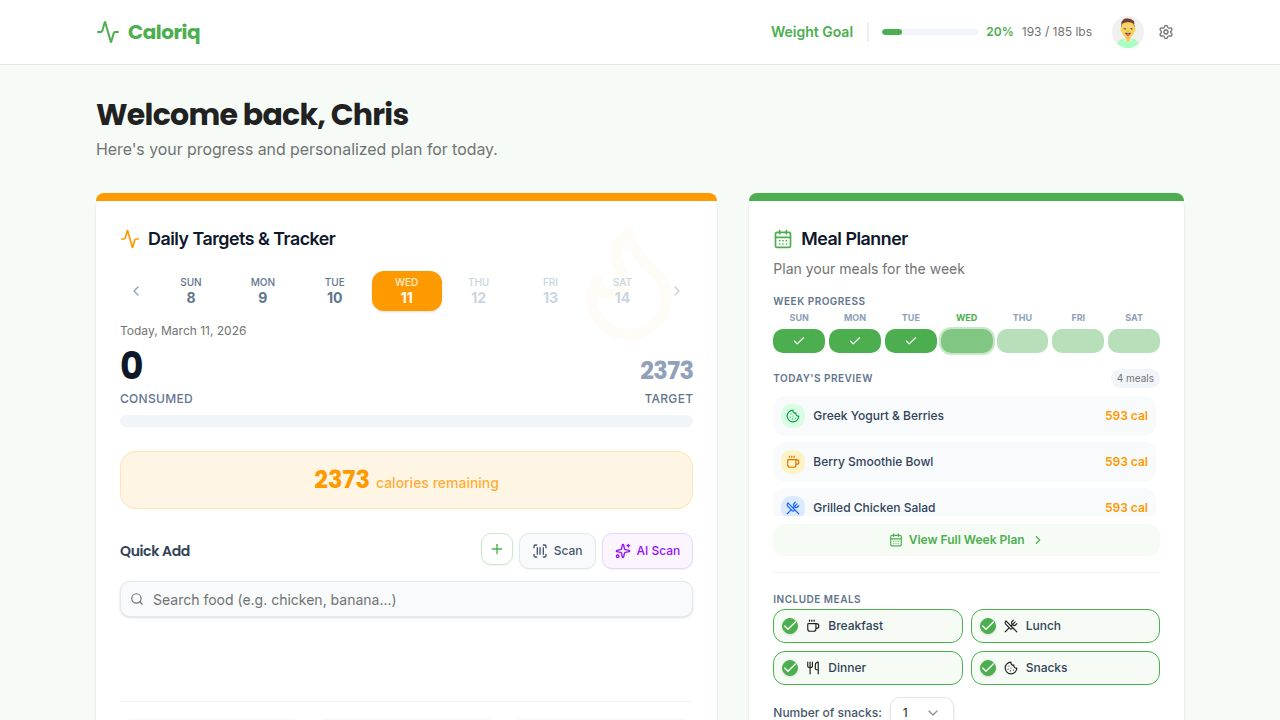
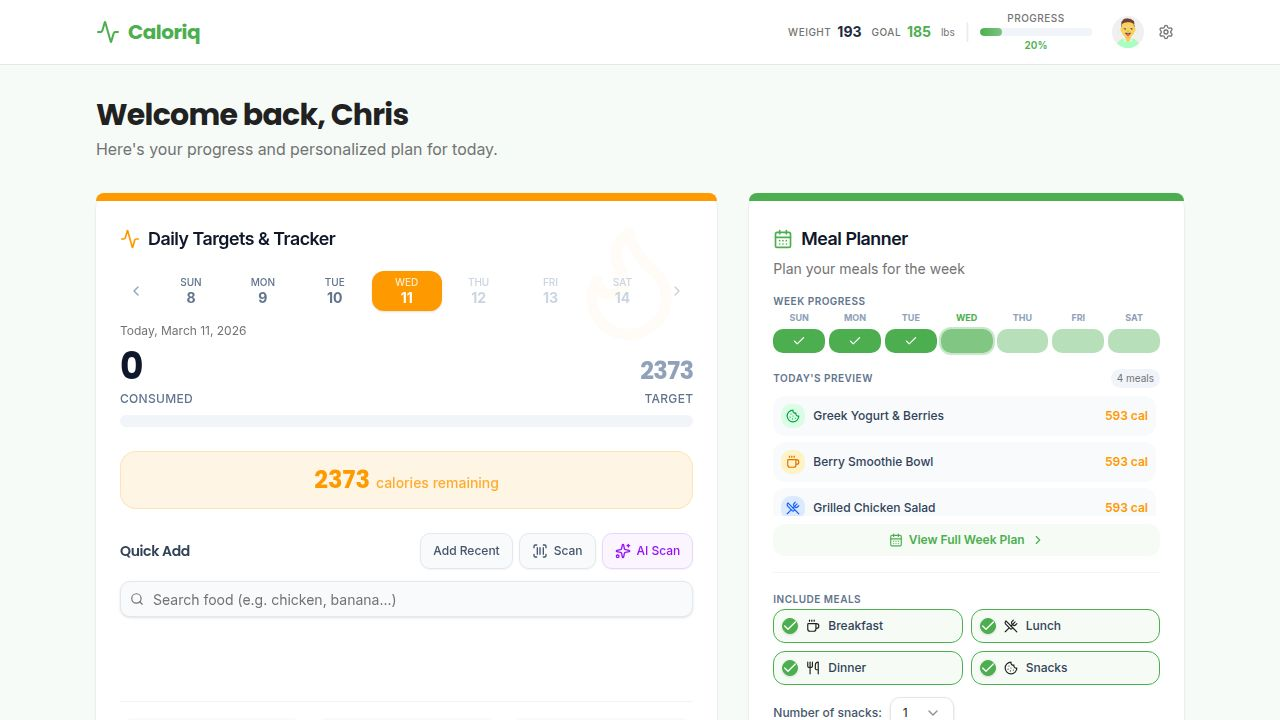
Update meal planner to show and log daily meals
Add ability to view and log individual meals from the daily meal plan in the Home component, renaming 'Today's Preview' to 'Today's Meals' and incorporating 'Eye' icon for viewing recipes.

Replit-Commit-Author: Agent
Replit-Commit-Session-Id: d0c98cd4-3401-4b9a-9fcc-3167ef5b7d4c
Replit-Commit-Checkpoint-Type: full_checkpoint
Replit-Commit-Event-Id: a284569d-7554-487b-8087-6badc2c68cf2
Replit-Commit-Screenshot-Url: https://storage.googleapis.com/screenshot-production-us-central1/b5252e75-7d72-4a27-a063-837869a7ea78/d0c98cd4-3401-4b9a-9fcc-3167ef5b7d4c/d6tlHCW
Replit-Helium-Checkpoint-Created: true

diff --git a/client/src/pages/home.tsx b/client/src/pages/home.tsx
@@ -27,7 +27,8 @@ import {
   Share2,
   ChevronDown,
   ChevronUp,
-  Dumbbell
+  Dumbbell,
+  Eye
 } from "lucide-react";
 import { format, addDays, subDays, isToday, isSameDay, startOfWeek, endOfWeek } from "date-fns";
 import type { UserProfile, FoodEntry, SavedRecipe, PlannedMeal, ExerciseEntry } from "@shared/schema";
@@ -1512,29 +1513,83 @@ export default function Home() {
                 {todayPlannedMeals.length > 0 ? (
                   <div className="space-y-2">
                     <div className="flex items-center justify-between">
-                      <Label className="text-[10px] uppercase tracking-wider text-slate-500 dark:text-slate-400 font-semibold">Today's Preview</Label>
+                      <Label className="text-[10px] uppercase tracking-wider text-slate-500 dark:text-slate-400 font-semibold">Today's Meals</Label>
                       <span className="text-[10px] text-muted-foreground bg-slate-100 dark:bg-slate-800 px-1.5 py-0.5 rounded-full">{todayPlannedMeals.length} meals</span>
                     </div>
-                    <div className="space-y-1.5 max-h-[120px] overflow-y-auto pr-1">
-                      {todayPlannedMeals.map(meal => (
-                        <div key={meal.id} className="flex items-center gap-2 p-2 rounded-lg bg-slate-50 dark:bg-slate-800 text-sm" data-testid={`planned-meal-${meal.id}`}>
-                          <div className={`w-6 h-6 rounded-md flex items-center justify-center flex-shrink-0 ${
-                            meal.mealType === 'breakfast' ? 'bg-amber-100 dark:bg-amber-900/30 text-amber-600' :
-                            meal.mealType === 'lunch' ? 'bg-blue-100 dark:bg-blue-900/30 text-blue-600' :
-                            meal.mealType === 'dinner' ? 'bg-purple-100 dark:bg-purple-900/30 text-purple-600' :
-                            'bg-green-100 dark:bg-green-900/30 text-green-600'
-                          }`}>
-                            {meal.mealType === 'breakfast' ? <Coffee className="h-3.5 w-3.5" /> :
-                             meal.mealType === 'lunch' ? <UtensilsCrossed className="h-3.5 w-3.5" /> :
-                             meal.mealType === 'dinner' ? <Utensils className="h-3.5 w-3.5" /> :
-                             <Cookie className="h-3.5 w-3.5" />}
+                    <div className="space-y-2 max-h-[280px] overflow-y-auto pr-1">
+                      {todayPlannedMeals.map(meal => {
+                        const isLogged = loggedMealIds.has(meal.id);
+                        return (
+                          <div key={meal.id} className={`p-2.5 rounded-xl border transition-all ${
+                            isLogged
+                              ? 'border-primary/20 bg-primary/5 dark:bg-primary/10'
+                              : 'border-slate-100 dark:border-slate-800 bg-slate-50 dark:bg-slate-800/50'
+                          }`} data-testid={`planned-meal-${meal.id}`}>
+                            <div className="flex items-center gap-2.5">
+                              <div className={`w-8 h-8 rounded-lg flex items-center justify-center flex-shrink-0 ${
+                                meal.mealType === 'breakfast' ? 'bg-amber-100 dark:bg-amber-900/30 text-amber-600' :
+                                meal.mealType === 'lunch' ? 'bg-blue-100 dark:bg-blue-900/30 text-blue-600' :
+                                meal.mealType === 'dinner' ? 'bg-purple-100 dark:bg-purple-900/30 text-purple-600' :
+                                'bg-green-100 dark:bg-green-900/30 text-green-600'
+                              }`}>
+                                {meal.mealType === 'breakfast' ? <Coffee className="h-4 w-4" /> :
+                                 meal.mealType === 'lunch' ? <UtensilsCrossed className="h-4 w-4" /> :
+                                 meal.mealType === 'dinner' ? <Utensils className="h-4 w-4" /> :
+                                 <Cookie className="h-4 w-4" />}
+                              </div>
+                              <div className="flex-1 min-w-0">
+                                <p className="text-[10px] font-bold text-slate-400 dark:text-slate-500 uppercase tracking-wider">{meal.mealType}</p>
+                                <p className={`text-sm font-medium truncate ${isLogged ? 'text-primary' : 'text-slate-700 dark:text-slate-300'}`}>{meal.title}</p>
+                              </div>
+                              <div className="flex flex-col items-end gap-0.5 shrink-0">
+                                <span className="text-xs font-semibold text-secondary">{meal.calories} cal</span>
+                                {isLogged && (
+                                  <span className="text-[10px] font-semibold text-primary flex items-center gap-0.5">
+                                    <Check className="h-3 w-3" /> Logged
+                                  </span>
+                                )}
+                              </div>
+                            </div>
+                            <div className="flex gap-1.5 mt-2">
+                              <Button
+                                variant="outline"
+                                size="sm"
+                                className="flex-1 h-7 text-xs"
+                                onClick={() => setSelectedRecipe({
+                                  ...meal,
+                                  type: meal.mealType,
+                                  match: meal.mealType,
+                                  cuisine: "planned",
+                                  image: null,
+                                })}
+                                data-testid={`button-view-meal-${meal.id}`}
+                              >
+                                <Eye className="h-3 w-3 mr-1" />
+                                View
+                              </Button>
+                              <Button
+                                size="sm"
+                                className={`flex-1 h-7 text-xs ${isLogged ? 'bg-primary/20 text-primary hover:bg-primary/30' : 'bg-primary hover:bg-primary/90 text-white'}`}
+                                disabled={isLogged}
+                                onClick={() => {
+                                  addRecipeToTracker(meal);
+                                  toast({
+                                    title: `Logged ${meal.title}`,
+                                    description: `${meal.calories} cal added to today's diary`,
+                                  });
+                                }}
+                                data-testid={`button-log-meal-${meal.id}`}
+                              >
+                                {isLogged ? (
+                                  <><Check className="h-3 w-3 mr-1" /> Logged</>
+                                ) : (
+                                  <><Plus className="h-3 w-3 mr-1" /> Log</>
+                                )}
+                              </Button>
+                            </div>
                           </div>
-                          <div className="flex-1 min-w-0">
-                            <p className="font-medium text-slate-700 dark:text-slate-300 truncate text-xs">{meal.title}</p>
-                          </div>
-                          <span className="text-xs font-semibold text-secondary whitespace-nowrap">{meal.calories} cal</span>
-                        </div>
-                      ))}
+                        );
+                      })}
                     </div>
                     <button
                       onClick={() => {
